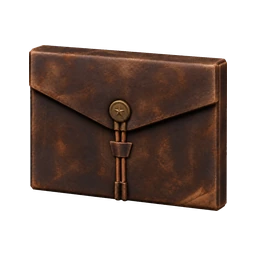
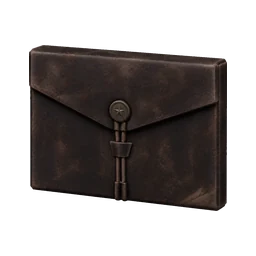
Quieter About case and full-bleed layout on modern iPhones
- About: the leather case is toned down to the night palette (half
  saturation, ~74% brightness, baked into the images), drawn at ~44px in a
  44-52px target, with no warm glow or indicator dot. Its label uses the
  footer's pale-stone token and brightens on hover and while open.
  Originals and the derivation script are kept in Assets/UI/nav-about.
- iPhone: the canvas keeps its CSS size (setSize updateStyle false) and its
  buffer follows the full-bleed scene container, with a ResizeObserver for
  toolbar changes that fire no window resize. html and body carry the
  scene's night with no overscroll bounce; theme-color and the manifest
  match the page (#0c1016).

Changed region(s): [[0.0938, 0.1562, 0.9062, 0.8125]]

diff --git a/styles.css b/styles.css
@@ -76,8 +76,12 @@
   box-sizing: border-box;
 }
 
+/* Behind Safari's translucent bars, the notch and any overscroll the page shows
+   the scene's own night, never a lighter band; the fixed scene never bounces. */
 html {
   scroll-behavior: smooth;
+  background: var(--night-900);
+  overscroll-behavior: none;
 }
 
 html,
@@ -113,7 +117,8 @@ body {
     "kern" 1,
     "liga" 1;
   color: var(--text-primary);
-  background: linear-gradient(180deg, var(--night-900) 0%, var(--night-800) 34%, #1d1d21 100%);
+  background: linear-gradient(180deg, var(--night-900) 0%, var(--night-800) 34%, #0d1119 100%);
+  overscroll-behavior: none;
 }
 
 body[data-panel-open="true"] {
@@ -420,10 +425,14 @@ main:focus {
     box-shadow 180ms ease;
 }
 
+/* A small, dim case that defers to the scene: no glow or indicator dot. The
+   padding keeps a 52px target around the 44px image. */
 .bottom-btn--icon {
   position: relative;
-  width: 88px;
-  height: 88px;
+  width: 52px;
+  height: 52px;
+  padding: 4px;
+  box-sizing: border-box;
   display: grid;
   place-items: center;
   border: 0;
@@ -432,47 +441,12 @@ main:focus {
   box-shadow: none;
 }
 
-/* A modest warm pool of ground light behind the satchel. */
-.bottom-btn--icon::before {
-  position: absolute;
-  inset: 10% -16% -12%;
-  z-index: -1;
-  content: "";
-  pointer-events: none;
-  background: radial-gradient(closest-side, rgba(242, 226, 196, 0.16) 35%, rgba(242, 226, 196, 0));
-}
-
-.bottom-btn--icon::after {
-  content: "";
-  position: absolute;
-  left: 50%;
-  bottom: 12px;
-  width: 6px;
-  height: 6px;
-  border-radius: 999px;
-  background: var(--line-pastel);
-  opacity: 0;
-  transform: translate(-50%, 4px) scale(0.6);
-  box-shadow: 0 0 18px rgba(214, 224, 218, 0.72);
-  transition:
-    opacity 220ms ease,
-    transform 220ms cubic-bezier(0.22, 1, 0.36, 1);
-  pointer-events: none;
-}
-
 .bottom-btn--icon:hover,
 .bottom-btn--icon:focus-visible,
 .bottom-btn--icon[aria-expanded="true"] {
   transform: translateY(-2px);
   border-color: transparent;
   box-shadow: none;
-}
-
-.bottom-btn--icon:hover::after,
-.bottom-btn--icon:focus-visible::after,
-.bottom-btn--icon[aria-expanded="true"]::after {
-  opacity: 1;
-  transform: translate(-50%, 0) scale(1);
 }
 
 .btn-icon {
@@ -487,7 +461,9 @@ main:focus {
 /* Resting icons face forward; only the open panel's icon turns inward. */
 .btn-icon--active {
   position: absolute;
-  inset: 0;
+  inset: 4px;
+  width: calc(100% - 8px);
+  height: calc(100% - 8px);
   opacity: 0;
 }
 
@@ -500,7 +476,7 @@ main:focus {
 }
 
 .btn-icon-label {
-  color: #ccccc7;
+  color: var(--text-accent);
   position: absolute;
   left: 50%;
   bottom: calc(100% + 8px);
@@ -521,11 +497,11 @@ main:focus {
   text-shadow: var(--text-meta-shadow);
 }
 
+/* Like the footer links, the word brightens on hover and while About is open. */
 .bottom-btn--icon:hover .btn-icon-label,
 .bottom-btn--icon:focus-visible .btn-icon-label,
 .bottom-btn--icon[aria-expanded="true"] .btn-icon-label {
-  opacity: 1;
-  transform: translate(-50%, 0);
+  color: var(--text);
 }
 
 /* Copyright and Email hold the left inset; Pause scene mirrors it on the right.
@@ -1003,8 +979,8 @@ body[data-panel-open]::after {
   }
 
   .bottom-btn--icon {
-    width: 76px;
-    height: 76px;
+    width: 48px;
+    height: 48px;
   }
 
   .btn-icon-label {
@@ -1028,8 +1004,7 @@ body[data-panel-open]::after {
 
 @media (prefers-reduced-transparency: reduce) {
   .hero-minimal::before,
-  .bottom-bar::before,
-  .bottom-btn--icon::before {
+  .bottom-bar::before {
     display: none;
   }
 }
@@ -1049,7 +1024,6 @@ body[data-panel-open]::after {
   .panel-overlay.open .panel-surface,
   .panel-close,
   .panel-surface,
-  .bottom-btn--icon::after,
   .site-footer__link,
   body::after {
     transition: none;
@@ -1119,8 +1093,9 @@ body[data-panel-open]::after {
   }
 
   .bottom-btn--icon {
-    width: 64px;
-    height: 64px;
+    width: 44px;
+    height: 44px;
+    padding: 2px;
   }
 
   .btn-icon-label {
@@ -1162,8 +1137,8 @@ body[data-panel-open]::after {
   }
 
   .bottom-btn--icon {
-    width: 84px;
-    height: 84px;
+    width: 52px;
+    height: 52px;
   }
 }
 
@@ -1260,7 +1235,6 @@ body.dev-mode-active::after {
 
   .hero-minimal::before,
   .bottom-bar::before,
-  .bottom-btn--icon::before,
   .scene-pause[data-paused="true"]::before {
     display: none;
   }

diff --git a/src/scene/index.js b/src/scene/index.js
@@ -864,16 +864,25 @@ function setSrgbTexture(texture) {
       frameScheduler?.invalidate();
       cameraTour?.prepareNext();
     }
+    // The scene fills its fixed, full-bleed container. On iPhone Safari that
+    // box can outgrow innerHeight (collapsing or translucent toolbars,
+    // standalone mode), so the drawing buffer follows the container's own
+    // size, and a ResizeObserver catches changes that fire no window resize.
     const resizeController = createSceneResizeController({
       onResize: applySceneSize,
       readSize() {
+        const rect = container?.getBoundingClientRect?.();
+        const measured = rect && rect.width > 0 && rect.height > 0;
         return {
-          height: window.innerHeight,
+          height: measured ? Math.round(rect.height) : window.innerHeight,
           pixelRatio: window.devicePixelRatio || 1,
-          width: window.innerWidth,
+          width: measured ? Math.round(rect.width) : window.innerWidth,
         };
       },
     });
+    const containerResizeObserver =
+      typeof ResizeObserver === "function" && container ? new ResizeObserver(() => resizeController.resize()) : null;
+    containerResizeObserver?.observe(container);
     // viewport.height is refreshed inside applySceneSize (the resize handler)
     // on every resize, so reading it inside the scroll handler avoids a
     // layout-flushing window.innerHeight access per scroll event.
@@ -1107,6 +1116,7 @@ function setSrgbTexture(texture) {
       panelObserver?.disconnect();
       panelHold.dispose();
       visitorHold.dispose();
+      containerResizeObserver?.disconnect();
       resizeController.dispose();
       frameScheduler.dispose();
       if (scene.devMode && typeof scene.devMode.dispose === "function") {

diff --git a/src/scene/rendering.js b/src/scene/rendering.js
@@ -426,7 +426,9 @@ export function createSceneRendering({
       if (Number.isFinite(cameraFov)) camera.fov = cameraFov;
       camera.aspect = nextWidth / nextHeight;
       camera.updateProjectionMatrix();
-      renderer.setSize(nextWidth, nextHeight);
+      // The canvas keeps its CSS size (100% of the full-bleed scene container);
+      // only the drawing buffer follows the measured size.
+      renderer.setSize(nextWidth, nextHeight, false);
       // The composer also sizes the outline pass, in device pixels.
       composer.setSize(nextWidth, nextHeight);
       // Grading samples its ink contour in CSS pixels.

diff --git a/404.html b/404.html
@@ -4,7 +4,7 @@
     <meta charset="UTF-8" />
     <meta name="viewport" content="width=device-width, initial-scale=1.0, viewport-fit=cover" />
     <title>Not found — Alex Nava</title>
-    <meta name="theme-color" content="#0b1020" />
+    <meta name="theme-color" content="#0c1016" />
     <link rel="icon" href="/favicon.svg" type="image/svg+xml" />
     <link rel="stylesheet" href="/styles.css?v=646" />
   </head>

diff --git a/index.html b/index.html
@@ -38,7 +38,7 @@
 
     <meta name="twitter:image:alt" content="Alex Nava — a timber lookout tower under a moonlit sky" />
 
-    <meta name="theme-color" content="#0b1020" />
+    <meta name="theme-color" content="#0c1016" />
 
     <meta name="mobile-web-app-capable" content="yes" />
 

diff --git a/STYLE.md b/STYLE.md
@@ -35,7 +35,7 @@ The cinematic tower and tree scene opens first, with the preferred 700-weight wa
 
 About opens the accepted illustrated estate as a menu over the dimmed scene. Preserve its desktop and portrait proportions, transparent paper boundary, and aligned Profile, Experience, and Contact landmarks. Keep About's title modest and its close control legible. Category dialogs use simple cotton paper and readable dark ink; Back, Escape, and backdrop dismissal return to the estate before the outer About dialog returns to the scene.
 
-Keep the single About case icon readable and straight-on at rest, revealing its right edge while About or a child category is open. Its label and ordinary text fallback remain usable without the icon, map artwork, or JavaScript. Child panels do not restore the old scroll curls, diagram map, separate Contact entry icon, or gold UI text.
+Keep the single About case icon small, dim and straight-on at rest, revealing its right edge while About or a child category is open. At the owner's request (2026-09-24) it defers to the scene: a desaturated, dimmed night-toned case about 44px across in a target of at least 44px, with no glow or indicator dot, under the word About in the footer's pale-stone type, which brightens on hover and while open. Its label and ordinary text fallback remain usable without the icon, map artwork, or JavaScript. Child panels do not restore the old scroll curls, diagram map, separate Contact entry icon, or gold UI text.
 
 ## Historical interface treatments
 
@@ -65,7 +65,7 @@ The direct-estate homepage and the earlier pair of About/Contact entry icons rem
 - Foreground hierarchy is the preserved warm-white name, soft off-white intro, pale stone navigation labels, then neutral-gray metadata. Gold belongs to the sun and material details, not secondary UI text. UI controls use the shared surface/line/focus tokens; avoid bright blue chrome or glossy buttons.
 - The camera tour has no shot label or control strip. Its only control is a quiet Pause scene / Play scene text button in the footer (the label names the next action): meta grey, 12px, with at least a 44px target. Preserve the per-shot holds (The watch and Portrait 9 seconds, Threshold and Gallery detail 7, Lantern study, Close-up and Root and lantern 6), the 1-second dissolve staggered by depth (sky, then mountains, ground and subject) with no dip to black, drift that never stops before a cut, and reduced-motion/panel pauses; fixed review cadences remain available through URL parameters.
 - The footer holds quiet meta text controls: Email beside the copyright and Pause/Play scene at the footer's right. They stay text only, with no Contact icon.
-- Keep model icons at 80% brightness, baked into the images without an additional CSS brightness filter. Labels stay visible and independent of the image; hover lift remains restrained.
+- Keep the About case's tone (half saturation, about 74% brightness, a faint cool shift) baked into the images without a CSS filter. Labels stay visible and independent of the image; hover lift remains restrained.
 - The About estate and its Profile, Experience, and Contact dialogs share dark ink and a dim scene backdrop. Child panels use quiet cotton fibers, restrained paper edges, and crisp selectable ink. No ruled lines, monograms, or wax seals. Close and Back controls have at least 44px targets, and Back sits fully on the paper. Panels lift into light over 440ms and close over 240ms; reduced motion is immediate.
 - Preserve hero/navigation bounds because scene framing uses those DOM rectangles. Recheck phone and desktop framing whenever text metrics or spacing change.
 - At viewport widths of 1681px and above, the hero and footer share a viewport-relative left gutter. The 1600×900 poster reference composition is unchanged.

diff --git a/CREDITS.md b/CREDITS.md
@@ -194,7 +194,7 @@ below) are retired and no longer published.
[2 lines of base64/hex data omitted]
 
-The published About pair (nav-about.webp and nav-about-active.webp, 16,310 bytes) was generated with the built-in OpenAI image tool, using Blender renders of the case as references. Sources and export details are in `docs/history/NAV-ICONS-QA.md` (2.5D inventory refinement).
+The About pair (nav-about.webp and nav-about-active.webp, originally 16,310 bytes) was generated with the built-in OpenAI image tool, using Blender renders of the case as references. Sources and export details are in `docs/history/NAV-ICONS-QA.md` (2.5D inventory refinement). On 2026-09-24 the pair was toned down to sit quietly in the night scene (half saturation, about 74% brightness, a faint cool shift; alpha kept) and is now 8,632 bytes; the untouched originals and the derivation script are in `Assets/UI/nav-about`.
 
 
 ## Cotton paper panel material
